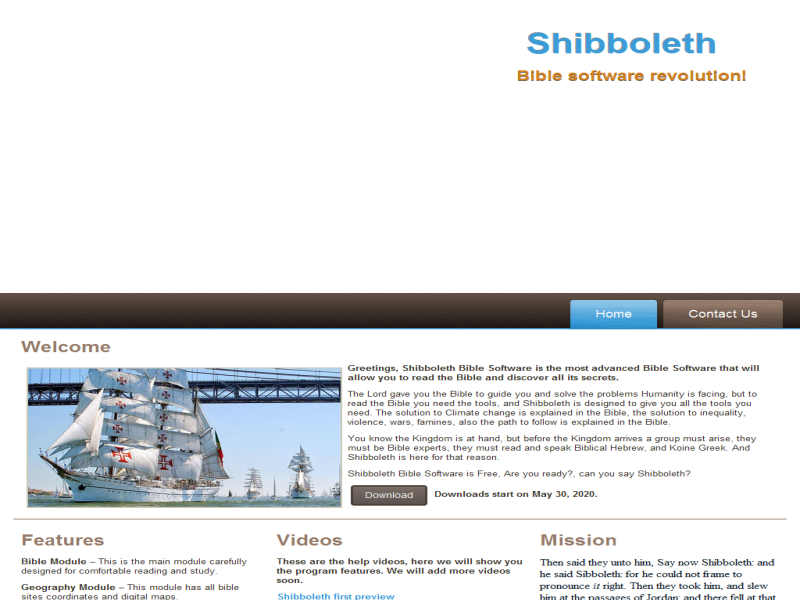
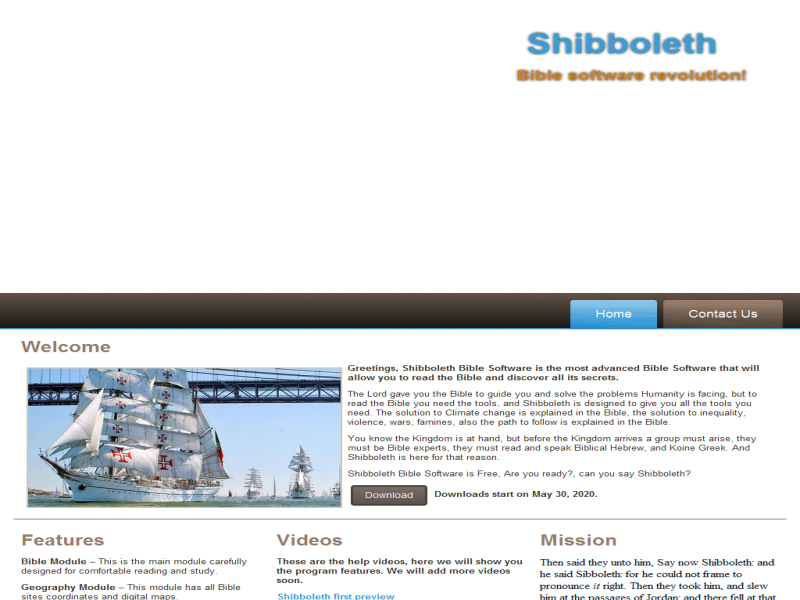
5

Changed region(s): [[0.625, 0.06, 0.9375, 0.15], [0.2812, 0.96, 0.3125, 0.99]]

diff --git a/index.html b/index.html
@@ -83,7 +83,7 @@
     <div class="art-layout-cell layout-item-1" style="width: 33%" >
         <p><span style="font-weight: bold;">Bible Module –</span>&nbsp;This is the main module carefully designed for comfortable reading and study.</p>
         <p>                  </p>
-        <p><span style="font-weight: bold;">Geography Module</span> – This module has all bible sites coordinates and digital maps.</p>
+        <p><span style="font-weight: bold;">Geography Module</span> – This module has all Bible sites coordinates and digital maps.</p>
         <p>                  </p>
         <p><span style="font-weight: bold;">Scholar Module</span> – This module is where you will learn to read and speak Biblical Hebrew, and the Greek used in the Gospels.</p>
         <p>                  </p>

diff --git a/new-page.html b/new-page.html
@@ -83,7 +83,7 @@
     <div class="art-layout-cell layout-item-1" style="width: 33%" >
         <p><span style="font-weight: bold;">Bible Module –</span>&nbsp;This is the main module carefully designed for comfortable reading and study.</p>
         <p>                  </p>
-        <p><span style="font-weight: bold;">Geography Module</span> – This module has all bible sites coordinates and digital maps.</p>
+        <p><span style="font-weight: bold;">Geography Module</span> – This module has all Bible sites coordinates and digital maps.</p>
         <p>                  </p>
         <p><span style="font-weight: bold;">Scholar Module</span> – This module is where you will learn to read and speak Biblical Hebrew, and the Greek used in the Gospels.</p>
         <p>                  </p>

diff --git a/style.css b/style.css
@@ -432,7 +432,7 @@ font-family: 'Century Gothic', Arial, 'Arial Unicode MS', Helvetica, Sans-Serif;
 font-weight: bold;
 font-style: normal;
 text-decoration: none;
-text-shadow: 1.4px 1.4px 0px rgba(255, 255, 255, 0.8), -1.4px -1.4px 0px rgba(23, 23, 23, 0.5);
+text-shadow: 0px 0px 6px rgba(23, 23, 23, 0.98);
   padding: 0;
   margin: 0;
   color: #3B9CD8 !important;
@@ -467,7 +467,7 @@ font-family: 'Century Gothic', Arial, 'Arial Unicode MS', Helvetica, Sans-Serif;
 font-weight: bold;
 font-style: normal;
 text-decoration: none;
-text-shadow: 0px 1px 0px rgba(23, 23, 23, 0.81);
+text-shadow: 0px 0px 6px rgba(23, 23, 23, 0.99);
   padding: 0;
   margin: 0;
   color: #D6811F !important;
